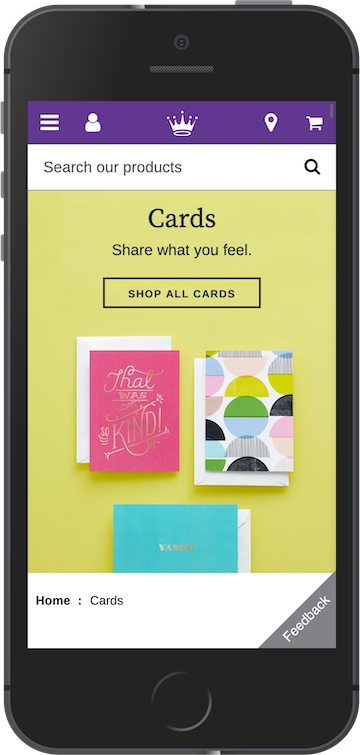
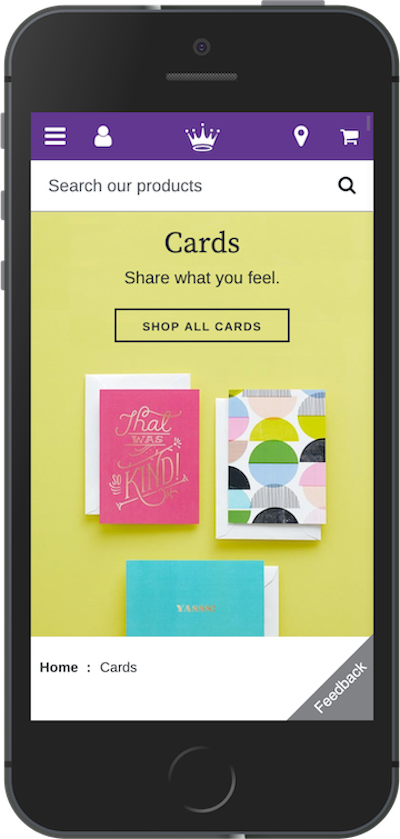
prox

diff --git a/design/index.html b/design/index.html
@@ -49,11 +49,12 @@
     <main>
         <h1>Proximity</h1>
         <figure class="myphoto">
-        <img src="" alt="The Church of Jesus Christ of Latter-day Saints">
-        <figcaption>The Church of Jesus Christ of Latter-day Saints</figcaption>
+        <img src="images/hallmark2.png" alt="Hallmark screnshot">
+        <figcaption>Hallmark.com</figcaption>
        
-        <h2>The Church of Jesus Christ of Latter-day Saints</h2>
-        <h2>...</h2>
+        <h2>Hallmark.com</h2>
+        <h2>The site screenshot from the Hallmark.com website shows the design elements of proximity. The typography is bunched together to clearly seperate the different price points for buying Hallmark cards. The colored background designs are also in close proximity to one another.</h2>
+        <a href="https://www.hallmark.com">Hallmark.com</a>
     </main>
     
 <!-- FOOTER HERE -->   
